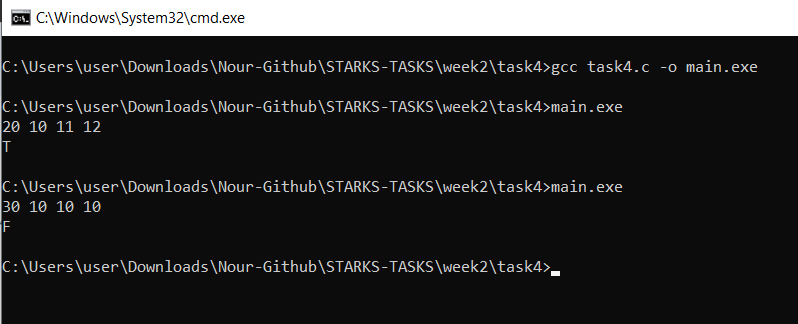
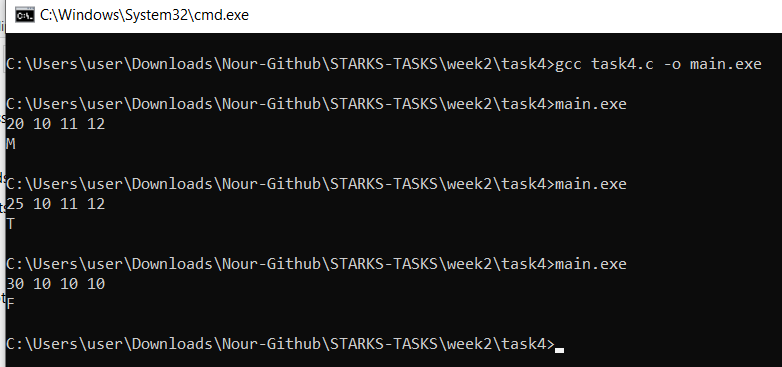
tasks for week2

Changed region(s): [[0.0, 0.0, 1.0, 1.0]]

diff --git a/week2/task4/task4.c b/week2/task4/task4.c
@@ -3,22 +3,26 @@
 int main() {
     int V, A, B, C;
     scanf("%d %d %d %d", &V, &A, &B, &C);
-    int currentPerson = 0;
-    while (V > 0) {
-        if (currentPerson == 0)
-            V -= A;
-        else if (currentPerson == 1)
-            V -= B;
-        else
-            V -= C;
-        currentPerson = (currentPerson + 1) % 3;
+    while (1) {
+             V -= A;
+        if (V<0)
+        {
+             printf("F\n");
+             break;
+        }
+        V -= B;
+        if (V<0)
+        {
+             printf("M\n");
+             break;
+        }
+         V -= C;
+        if (V<0)
+        {
+             printf("T\n");
+             break;
+        }
     }
-    if (currentPerson == 0) {
-        printf("F\n");
-    } else if (currentPerson == 1) {
-        printf("M\n");
-    } else {
-        printf("T\n");
-    }
+
     return 0;
 }
